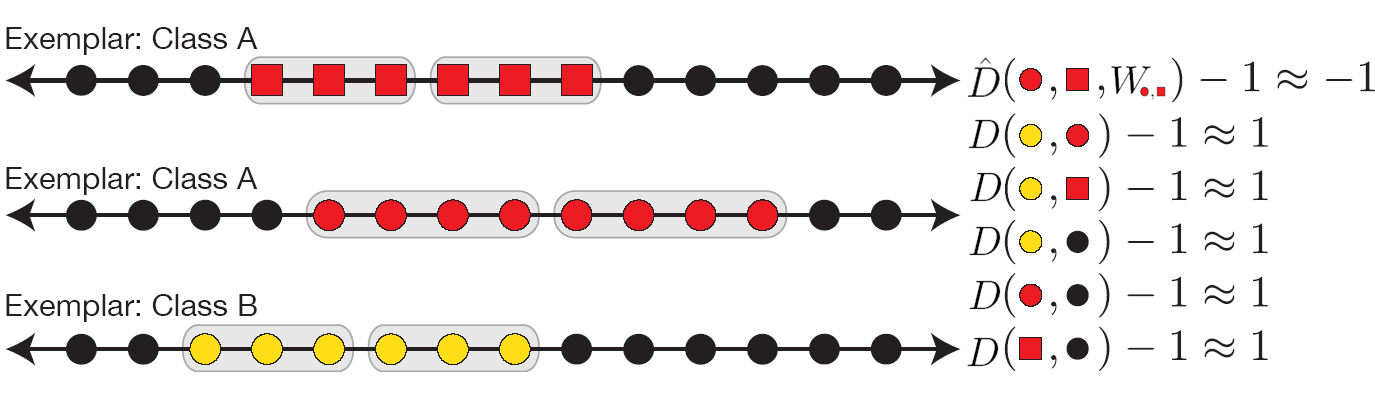
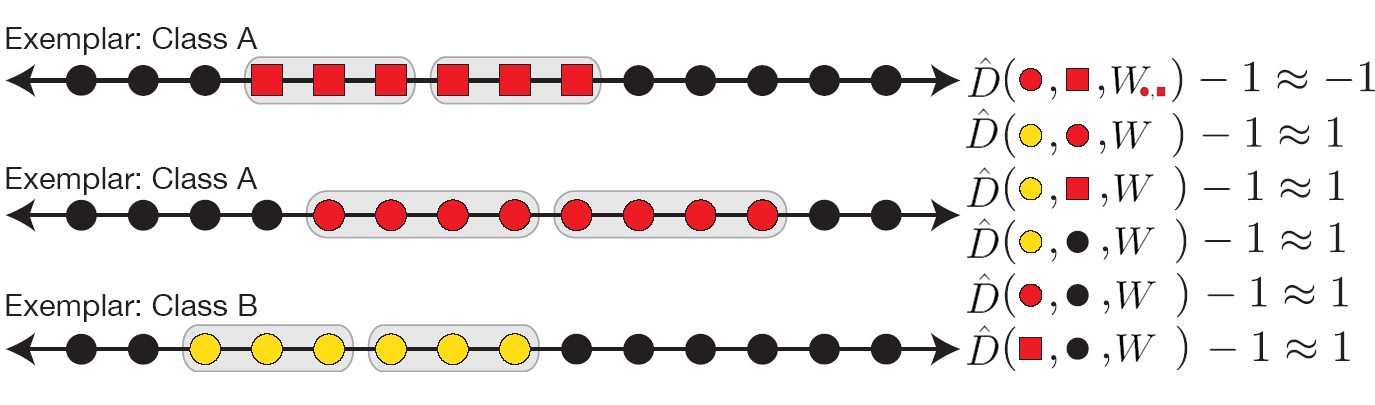
Consolidated all 7am

diff --git a/Supplemental.tex b/Supplemental.tex
@@ -19,7 +19,7 @@
 \newcommand{\todd}[1]{\textcolor{red}{[\bf TZ: #1]}}
 \newcommand{\ruonan}[1]{\textcolor{blue}{[\bf RL: #1]}}
 
-%\cvprfinalcopy % *** Uncomment this line for the final submission
+\cvprfinalcopy % *** Uncomment this line for the final submission
 
 \def\cvprPaperID{1332} % *** Enter the CVPR Paper ID here
 \def\httilde{\mbox{\tt\raisebox{-.5ex}{\symbol{126}}}}
@@ -30,7 +30,7 @@
 \begin{document}
 
 %%%%%%%%% TITLE
-\title{Supplemental Material Accompanying Paper 1332,\\ ``Finding Group Interactions in Social Clutter''}
+\title{Supplemental Material Accompanying Paper 1332\\ ``Finding Group Interactions in Social Clutter''}
 %\author{ Ruonan Li and Todd Zickler\\
 %Harvard School of Engineering and Applied Science\\
 %{\tt\small \{ruonanli,zickler\}@seas.harvard.edu}
@@ -43,7 +43,7 @@
 \section{Details of Branch-and-Bound Localization}
 \label{detailBB}
 
-To apply branch-and-bound algorithm to minimize (\ref{quality}), we first specify the spaces where $T_{s}$ and $T_{e}$ may take a value. We denote the length of the shortest exemplar activity as $T_{min}$, then we assume $1\leq T_{s}\leq T-T_{min}+1$ and $T_{min}+1\leq T_{e}\leq T$. Additional constraint may be imposed, such as $T_{min}\leq T_{e}-T_{s}$. Given these information,  the temporal branch-and-bound algorithm, as a companion to the 2-D case studied in \cite{Lampert}, can be derived as in Algorithm \ref{Algo:2}.  In this algorithm, $\hat{f}(T_{s,low}, T_{s,upp}, T_{e,low}, T_{e,upp})$ is a lower bound of the values of the quality function evaluated on all intervals enclosed in $[T_{s,low}, T_{s,upp}]\times [T_{e,low}, T_{e,upp}]$. To calculate this lower bound, we define
+To apply branch-and-bound algorithm to minimize the quality function (7), we first specify the spaces where $T_{s}$ and $T_{e}$ may take a value. We denote the length of the shortest exemplar activity as $T_{min}$, then we assume $1\leq T_{s}\leq T-T_{min}+1$ and $T_{min}+1\leq T_{e}\leq T$. Additional constraint may be imposed, such as $T_{min}\leq T_{e}-T_{s}$. Given these information,  the temporal branch-and-bound algorithm, as a companion to the 2-D case studied in \cite{Lampert}, can be derived as in Algorithm \ref{Algo:2}.  In this algorithm, $\hat{f}(T_{s,low}, T_{s,upp}, T_{e,low}, T_{e,upp})$ is a lower bound of the values of the quality function evaluated on all intervals enclosed in $[T_{s,low}, T_{s,upp}]\times [T_{e,low}, T_{e,upp}]$. To calculate this lower bound, we define
 \begin{equation}
 \begin{split}
 &\hat{f}(T_{s,low}, T_{s,upp}, T_{e,low}, T_{e,upp})\\
@@ -60,7 +60,7 @@ which only needs to be computed once. Then the lower bound for the cell $\mathca
 \end{equation}
 
 
-\begin{algorithm*}[h]
+\begin{algorithm*}[t]
 \begin{enumerate}
 \footnotesize{
 \item Initialize: Let $T_{s,low}=1$, $T_{s,upp}=T-T_{min}+1$, $T_{e,low}=T_{min}+1$, and $T_{e,upp}=T$; Initialize priority queue $Q$ as empty; 
@@ -92,7 +92,7 @@ Until $T_{s,low}=T_{s,upp}, T_{e,low}=T_{e,upp}$.
 
 \section{Details for Classroom Interaction Dataset}
 
-The raw video framerate is 15fps.
+The raw video frame rate is 15fps.
 
 We have applied an OpenCV face detector and generated long tracks of the bounding boxes using a combination of OpenCV mean-shift tracking and dominant optical flows. We manually eliminate the false-alarm boxes/tracks and recover (very few) miss-detections when using the video for building ground-truth exemplars, and do not involve manual correction when testing our approach. 
 
@@ -109,19 +109,19 @@ In consultation with education experts we define interaction categories based on
 
 \subsection{Descriptors}
 
-We use a coarse representation of the head pose as the individual descriptor. Specifically, we compute the Histogram of Oriented Gradient (HOG) feature within each temporal unit and each box, and apply nine one-against-all SVMs to estimate the likelihood of a HOG feature belonging to nine head poses (front, left, lower-left, lower-front, lower-right, right, back-right, and back-left). The nine-dimensional likelihood vector  serves as our individual descriptor. Meanwhile, we derive the pairwise descriptor for three or more individuals based on the geometrical configurations of the bounding boxes. As shown in the left panel of Figure \ref{all_illu}(b), where a descriptor of target $m$ relative to target $m'$ among five targets at time $t$ is computed, we compute the distances $r_{i}$'s between all others and $m$, and the relative angles $a_{i}$'s between the connecting vectors and $\overrightarrow{mm'}$, and combine all these geometric quantities into a pairwise descriptor $\mathbf{g}_{m,m',t}$. When computing $\mathbf{g}_{n,n',s}$ in the input (right panel of Figure \ref{all_illu}(b)), we align $\overrightarrow{nn'}$ against $\overrightarrow{mm'}$ and predict the locations of the three individuals (shown in red), and compute the true distances $z_{i}$'s and relative angles $b_{i}$'s by locating the nearest individuals to the predicted locations. This pairwise representation achieves invariance under similarity transforms. For two-person interaction, we simply use the distance and the relative angles against the right horizontal axis (Figure \ref{all_illu}(c)). 
+We use a coarse representation of the head pose as the individual descriptor. Specifically, we compute the Histogram of Oriented Gradient (HOG) feature within each temporal unit and each box, and apply nine one-against-all SVMs to estimate the likelihood of a HOG feature belonging to nine head poses (front, left, lower-left, lower-front, lower-right, right, back-right, and back-left). The nine-dimensional likelihood vector  serves as our individual descriptor. Meanwhile, we derive the pairwise descriptor for three or more individuals based on the geometrical configurations of the bounding boxes. As shown in the left panel of Fig. \ref{context_classroom}(a), where a descriptor of target $m$ relative to target $m'$ among five targets at time $t$ is computed, we compute the distances $r_{i}$'s between all others and $m$, and the relative angles $a_{i}$'s between the connecting vectors and $\overrightarrow{mm'}$, and combine all these geometric quantities into a pairwise descriptor $\mathbf{g}_{m,m',t}$. When computing $\mathbf{g}_{n,n',s}$ in the input (right panel of Figure \ref{context_classroom}(a)), we align $\overrightarrow{nn'}$ against $\overrightarrow{mm'}$ and predict the locations of the three individuals (shown in red), and compute the true distances $z_{i}$'s and relative angles $b_{i}$'s by locating the nearest individuals to the predicted locations. This pairwise representation achieves invariance under similarity transforms. For two-person interaction, we simply use the distance and the relative angles against the right horizontal axis (Fig. \ref{context_classroom}(b)). 
 
 \begin{figure}[t]
 \begin{center}
-\includegraphics[scale=1.2]{all_illu.png}
+\includegraphics[scale=0.4]{context_classroom.png}
 \end{center}
-\caption{For the classroom dataset, pairwise descriptors for groups comprised of (a) three or more participants, and (b) two participants. See text for details. \todd{Remove the left part of this figure}}
-\label{fig:classroom-pairwise}
+\caption{For the classroom dataset, pairwise descriptors for groups comprised of (a) three or more participants, and (b) two participants. See text for details. }
+\label{context_classroom}
 \end{figure}
 
 \subsection{Computational cost}
 
-We first look into the computational cost. We replace the optimal matching method with an exhaustive enumeration of all possible matchings. We also apply temporal sliding windows at eight scales ranging from half to twice of the exemplar length, stopping using the remaining scales whenever the current window achieves the same quality function value as the branch-and-bound. We show the average computation time for one match between an exemplar and an input on a 8-core 2.8GHz Macintosh in Table \ref{computecost} (supplementary material), where we see clear savings for the proposed approach.
+We first look into the computational cost. We replace the optimal matching method with an exhaustive enumeration of all possible matchings. We also apply temporal sliding windows at eight scales ranging from half to twice of the exemplar length, stopping using the remaining scales whenever the current window achieves the same quality function value as the branch-and-bound. We show the average computation time for one match between an exemplar and an input on a 8-core 2.8GHz Macintosh in Table \ref{computecost}, where we see clear savings for the proposed approach.
 
 
 \begin{table}[h]
@@ -140,19 +140,19 @@ We first look into the computational cost. We replace the optimal matching metho
 \end{table}
 
 \subsection{Temporal localization}
-We finally investigate the temporal localization performance, for which we compute the ratio of the intersection to the union of the estimated interval and the annotated interval, and show the averages in Figure \ref{classtemporal}(b).  Again, metric learning improves the capability of finding temporal boundaries.
+We investigate the temporal localization performance, for which we compute the ratio of the intersection to the union of the estimated interval and the annotated interval, and show the averages in Figure \ref{temporal_bar}.  Again, metric learning improves the capability of finding temporal boundaries.
 
-\begin{figure*}[t]
+\begin{figure}[t]
 \begin{center}
-\includegraphics[scale=2.5]{classtemporal.png}
+\includegraphics[scale=2.5]{temporal_bar.png}
 \end{center}
 \caption{Average classification accuracies and false positives for two-person and three-person interactions (Individual and/or pairwise descriptors, with or without metric learning (ML)) and the temporal localization accuracies.}
-\label{classtemporal}
-\end{figure*}
+\label{temporal_bar}
+\end{figure}
 
 \subsection{More examples}
 
-\todd{If you reduce the number of results included in the main paper, you could include some more here.}
+\todd{Add ROC here. Full example is already here}
 
 \begin{figure*}
 \begin{center}
@@ -170,7 +170,7 @@ We finally investigate the temporal localization performance, for which we compu
 A 32-dimensional histogram of the spatio-temporal features developed by \cite{Dollar:STIP} in each unit and each bounding box is calculated first against a 500-word vocabulary from K-means clustering and then by PCA, and serves as the individual activity descriptor. Another 32-dimensional histogram of the optical flow computed from OpenCV in each unit and each box is calculated against 8 directions and 4 magnitudes, and the difference between the two histograms (relative motion) serves as the pairwise descriptor between the two humans. In testing, we employ the human detector \cite{Pedro:detect}, and associate the detected boxes across frames to form continuous tracks of humans. 
 
 \subsection{Additional experiments}
-We again explore the effectiveness of combining both individual descriptor and pairwise descriptor, as well as metric learning for group dissimilarity function. We implement our approach with either but not both descriptor, and without learning the dissimilarity. The performance comparison is show in Table ~\ref{UTaccuFPdegrade}. It is interesting to see the pairwise descriptor plays a more crucial role for this dataset: A significant performance drop arises when we only consider individual action descriptors. 
+We again explore the effectiveness of combining both individual descriptor and pairwise descriptor, as well as metric learning for group dissimilarity function. We implement our approach with either but not both descriptor, and without learning the dissimilarity. The performance comparison is show in Table~\ref{UTaccuFPdegrade}. It is interesting to see the pairwise descriptor plays a more crucial role for this dataset: A significant performance drop arises when we only consider individual action descriptors. 
 
 \begin{table}[h]
 \centering \caption{Classification accuracies and false positive (FP) rates comparison on UT-Interaction dataset for evaluating the effectiveness of different components of the proposed approach: Individual and/or pairwise descriptors, with or without metric learning (ML).}
@@ -198,6 +198,8 @@ into action intervals. For more details please refer to \cite{CRIM13}. Note that
 We exactly follow the training/testing partitions provided by the dataset. We extract the spatio-temporal interest points (STIP) based appearance features and compute trajectory-based features from the tracks provided with the dataset as \cite{CRIM13} does (See \cite{CRIM13} for details). Differently from \cite{CRIM13}, we only compute STIP based features inside the bounding boxes enclosing the mice. The trajectory-based features consists of those describing the motion of each individual mouse and those describing the relative motion between two mice. We denote the former as T\_ind and the latter as T\_pair. Again we use a 4-level temporal pyramid, in which the STIP based appearance features are computed as \cite{CRIM13} does and the trajectory based features are also transformed into histograms against 64 codewords. 
 
 \subsection{Additional analysis}
+
+\todd{need rewrite}
 Three combinations of features were attempted in \cite{CRIM13}: Trajectory only, STIP only, and using both. For the case trajectory only, our approach has two possible working modes: Using all trajectory-based features as individual descriptors (denoted as Trajectory\_1), or using T\_ind as individual descriptors and using T\_pair as pairwise descriptors (denoted as Trajectory\_2). In the case of STIP only, all features are used as individual descriptors, and in the case of using both, STIP features and trajectory-based features serve as individual descriptor and pairwise descriptors respectively. To classify a segment responded by one or more exemplars, we simply give it the label of the top-ranked exemplar. We follow the same error metric as \cite{CRIM13}, the frame-wise accuracy, and report the results in Table \ref{CRIMAccu}, where it is evident that motion trajectory is much more discriminative than local STIP based features given little articulation in a constrained environment. The competing performance by approach is achieved by splitting the motion into individual ones and pairwise ones and learning separate metrics for them (Trajectory\_2). In other cases, multi-level adaboost based approach exhibits superiority on frame-wise classifications (as in \cite{CRIM13}).
 
 

diff --git a/classroom_exp.tex b/classroom_exp.tex
@@ -2,46 +2,61 @@
 \section{Experiments}
 \label{expall}
 
-We evaluate our approach on three distinct datasets, two that involve humans and one that involves mice. This tests the generality of our framework because the datasets are very different from one another, with distinct types of individual and pairwise descriptors in each case.that are appropriate for each case are quite different. Due to space constraints, the following discussion is brief. Additional details and experimental results can be found in the accompanying supplemental material.
+We evaluate our approach on three distinct datasets, two that involve humans and one that involves mice. This tests the generality of our framework because the datasets are very different from one another, with distinct types of individual and pairwise descriptors in each case that are appropriate for each case are quite different. In all experiments we use four-level temporal pyramids for the interactions, and we set the time unit to be half the duration of the cells in the lowest level. Due to space constraints, the following discussion is brief. Additional details and experimental results can be found in the accompanying supplemental material.
+
 
 \vspace{0.05in}\noindent\textbf{Classroom Interaction Database.} We collected and annotated a new database of videos capturing students' behaviors over five hour-long sessions in an interactive classroom at a major university. As shown in the left-most images of Fig.~\ref{retrieved}, the students are seated in a regular lecture hall and are observed by a camera array with non-overlapping fields of view. The classroom is ``interactive'' because at various times throughout the lecture students are invited to engage in ad-hoc group discussions about problems provided by the instructor (see, e.g.,~\cite{Crouch:PI}). The ad-hoc groups can form within and across seating rows, and detecting them is a challenge because the number of by-standers  is much larger than the number of participants ($M$ is between 10 and 20 while $N$ is between 2 and 4), video quality is limited (low light, less than 15fps), and the visual cues for interaction are quite subtle. The ability to automatically detect such interactions is important for education researchers, however, since it can help in understanding how students self-organize into groups, and which geometric configurations of groups lead to improved educational outcomes.
 
 Through a combination of face detection and tracking, we obtained noisy tracks for all students in each monocular video. We manually identified the participants and start/end times of all two-person, three-person, and four-person interactions, obtaining 254 two-person, 112 three-person, and 16 four-person interactions in total. In consultation with education experts we define interaction categories based on the geometric configurations of the participants: three categories for 2-person interactions (same row; different rows with left agent in front; different rows with right agent in front) and four categories for 3-person interactions. Details and example images for each category can be found in the accompanying supplemental material. The annotated interactions range from a few seconds to tens of seconds in length. Since the raw videos arise from five different hour-long session, and we adopt a leave-one-session-out evaluation scheme in partitioning  training samples (exemplars) from test samples (inputs). Also, for each split of the data we manually eliminate the false detections and tracks in the exemplars, while leaving them present in the test samples. 
 
-\begin{figure*}
+\begin{figure}[t]
+\vspace{-5pt}
 \begin{center}
-\includegraphics[scale=2.25]{retrieved.png}
+\includegraphics[width=\columnwidth]{ROC_p.png}
 \end{center}
-\vspace{-10pt}
-\caption{Examples of social interaction detection and matching on the classroom interaction database. Each row is an example of detecting a salient interaction from an input and enumerating similar database exemplars: (a) is the input, (b) is the detected social interaction, and (c-1) to (c-3) are the top three associated database exemplars that support this detection.\todd{Can you remove the right-most column of images (and thus the fourth row) and make this into a single-column figure? You could still include the full five-column version in the supplemental material.}}
-\label{retrieved}
-\end{figure*}
+\caption{ROC curves for identifying the participants of an two-person and and four-person interactions using the proposed approach and baselines. (See three-person case in the supplementary material.)}
+\label{ROC}
+\vspace{-5pt}
+\end{figure}
 
-We use four-level temporal pyramids for the interactions and set the time unit to be half the duration of the cells in the lowest level. For individual descriptors we use nine-dimensional vectors that crudely encode the agents' head pose, and for pairwise descriptors we use vectors of dimension $2(N-1)$ that encode, in a manner invariant to similarity transforms, the location of an agent relative to all other $(N-1)$ participants. More details can be found in the supplemental material.
 
-We begin by looking at accuracy of detection, where we ignore the inferred interaction categories and simply measure the systems ability to detect when an interaction has occurred. Figure~\ref{ROC} shows detection ROC curves for different group sizes with various parts of the system turned off. This includes using only one of the individual or pairwise descriptors, and using metric learning (optimized $\Sigma_I,\Sigma_P$) or not ($\Sigma_I$ and $\Sigma_P$ set to identity matrices). Using all parts of the system yields the best results, and we note that performance improves as the number of participants $N$ increases. The latter is due to the fact that interaction patterns are more easily discriminated when more pairwise information is available.
+
+For individual descriptors we use nine-dimensional vectors that crudely encode the agents' head pose, and for pairwise descriptors we use vectors of dimension $2(N-1)$ that encode, in a manner invariant to similarity transforms, the location of an agent relative to all other $(N-1)$ participants. More details can be found in the supplemental material.
+
+
+We begin by looking at accuracy of detection, where we ignore the inferred interaction categories and simply measure the systems ability to detect when an interaction has occurred. Fig.~\ref{ROC} shows detection ROC curves for different group sizes with various parts of the system turned off. This includes using only one of the individual or pairwise descriptors, and using metric learning (optimized $\Sigma_I,\Sigma_P$) or not ($\Sigma_I$ and $\Sigma_P$ set to identity matrices). Using all parts of the system yields the best results, and we note that performance improves as the number of participants $N$ increases. The latter is due to the fact that interaction patterns are more easily discriminated when more pairwise information is available.
 %t is interesting that pairwise descriptor performs better than individual descriptor, mainly due to the fact that the interaction only occur among nearby students in a classroom environment and therefore geometric context provides a strong clue for a potential occurrence of interaction. 
 
-\begin{figure*}[t]
-\begin{center}
-\includegraphics[scale=2.5]{ROC.png}
-\end{center}
-\caption{ROC curves for identifying the participants of an two-person, three-person, and four-person interactions using the proposed approach and baselines. \todd{You could move the $N=3$ graph to the supplemental material and make this a single-column figure.} }
-\label{ROC}
-\end{figure*}
 
 
-\begin{figure*}[t]
+\begin{figure}[t]
+\vspace{-5pt}
 \begin{center}
-\includegraphics[scale=2.5]{classtemporal.png}
+\includegraphics[width=\columnwidth]{class_bar.png}
 \end{center}
-\caption{Average classification accuracies and false positives for two-person and three-person interactions (Individual and/or pairwise descriptors, with or without metric learning (ML)) and the temporal localization accuracies.\todd{Remove temporal localization and make this a single-column figure.}}
+\caption{Average classification accuracies and false positives for two-person and three-person interactions (Individual and/or pairwise descriptors, with or without metric learning (ML)).}
 \label{classtemporal}
-\end{figure*}
+\vspace{-5pt}
+\end{figure}
 
-Next, we study classification performance for 2-person and 3-person interactions, where we measure the accuracy of inferred interaction categories (due to the small number of 4-person interactions in our dataset, we did not define categories for them). As before we do this with various parts of the system turned off, and Fig.~\ref{classtemporal} shows for all correctly-detected interactions the average true positive rates vs. false positives when further classifying them into the three or four categories. \todd{I do not understand the previous sentence.} Again we see that performance improves when more parts of the system turned on. We can also draw a contrast with the detection results of Fig.~\ref{ROC} where the pairwise features are substantially more important than the individual ones. This difference diminishes in Fig.~\ref{classtemporal}, likely because we are measuring performance on correctly-detected interactions, where head pose provides stronger evidence than spatial configuration. An improved head-pose estimator or a more sophisticated description of body pose can be expected to further improved classification performance.
+Next, we study classification performance for 2-person and 3-person interactions, where we measure the accuracy of inferred interaction categories (due to the small number of 4-person interactions in our dataset, we did not define categories for them). As before we do this with various parts of the system turned off, and Fig.~\ref{classtemporal} shows the average true positive rates vs. false positives when further classifying detected interations into the three or four categories. Again we see that performance improves when more parts of the system turned on. We can also draw a contrast with the detection results of Fig.~\ref{ROC} where the pairwise features are substantially more important than the individual ones. This difference diminishes in Fig.~\ref{classtemporal}, likely because we are measuring performance on correctly-detected interactions, where head pose provides stronger evidence than spatial configuration. An improved head-pose estimator or a more sophisticated description of body pose can be expected to further improved classification performance.
 
-Figure~\ref{retrieved} shows some successes and failures of detection and matching. In the first and third rows,  two-person and three-person interactions are correctly detected and matched with exemplars. The second row shows a false detection (blue dashed box), where two people are not interacting but exhibit head poses similar to those of an interaction. In the fourth row, a three-person interaction (two looking left) is correctly detected but supported by a similar exemplar of different category (blue dashed box; two looking right). In the fifth row, a three-person interaction is correctly identified and associated with correct exemplars.
 
-Additional results related to computational cost and accuracy of temporal localization can be found in the supplemental material.
+\begin{figure}
+\vspace{-5pt}
+\begin{center}
+\includegraphics[width=\columnwidth]{retrieved_p.png}
+\end{center}
+\vspace{-10pt}
+\caption{Examples of social interaction detection and matching on the classroom interaction database. Each row is an example of detecting a salient interaction from an input and enumerating similar database exemplars: (a) is the input, (b) is the detected social interaction, and (c-1) to (c-2) are the top two associated database exemplars that support this detection. (See additional examples in the supplementary material.)}
+\label{retrieved}
+\vspace{-5pt}
+\end{figure}
+
+
+Fig.~\ref{retrieved} shows some successes and failures of detection and matching. In the first and third rows,  two-person and three-person interactions are correctly detected and matched with exemplars. The second row shows a false detection (blue dashed box), where two people are not interacting but exhibit head poses similar to those of an interaction. In the fourth row, a three-person interaction is correctly identified and associated with correct exemplars.
+
+ %In the fourth row, a three-person interaction (two looking left) is correctly detected but supported by a similar exemplar of different category (blue dashed box; two looking right). 
+
+Additional results related to computational cost, ROC curve for three-person interaction, accuracy of temporal localization, and extra examples can be found in the supplemental material.
 

diff --git a/UT_Mice_Conclusion.tex b/UT_Mice_Conclusion.tex
@@ -1,10 +1,10 @@
 % !TEX root =  GroupDet.tex
 
-\todd{Add to the beginning of Section 4, ``In all cases we use four-level temporal pyramids for the interactions, and we set the time unit to be half the duration of the cells in the lowest level.'' Then remove these words from elsewhere in the section.} 
 
-\vspace{0.05in}\noindent\noindent\textbf{UT-Interaction Dataset.} For comparison to the state-of-art, we evaluate our approach on the UT-Interaction dataset~\cite{Ryoo:group}. We follow the protocol defined in previous work~\cite{Ryoo:group,Amer:group}: 20\% of available interaction annotations are used as exemplars for training, and the remaining (non-annotated) sequences are used for testing. We again use a 4-level temporal pyramid and set a temporal unit to half length of the bottom-level cell. For individual descriptors we use 32-dimensional histogram of space-time features~\cite{Dollar:STIP}, and for pairwise descriptors we use 32-dimensional differences of optical flow histograms to encode relative motion (more details in supplemental material). To obtain agent tracks in input sequences we use a per-frame detector~\cite{Pedro:detect} with a simple between-frame association rule.
+\vspace{0.05in}\noindent\noindent\textbf{UT-Interaction Dataset.} For comparison to the state-of-art, we evaluate our approach on the UT-Interaction dataset~\cite{Ryoo:group}. We follow the protocol defined in previous work~\cite{Ryoo:group,Amer:group}: 20\% of available interaction annotations are used as exemplars for training, and the remaining (non-annotated) sequences are used for testing. For individual descriptors we use 32-dimensional histogram of space-time features~\cite{Dollar:STIP}, and for pairwise descriptors we use 32-dimensional differences of optical flow histograms to encode relative motion (more details in supplemental material). To obtain agent tracks in input sequences we use a per-frame detector~\cite{Pedro:detect} with a simple between-frame association rule.
 
 \begin{table}[ht]
+\vspace{-5pt}
 \centering \caption{Classification accuracies and false positive (FP) rates for the proposed method and the baselines on UT-Interaction dataset.}
 \footnotesize{
 \begin{tabular}{|c||c|c|}
@@ -20,12 +20,14 @@
 \end{tabular}
 }
 \label{UTaccuFP}
+\vspace{-5pt}
 \end{table}
 
-Table~\ref{UTaccuFP} compares recognition accuracy and false-alarm rates to those of previous work~\cite{Ryoo:group,Amer:group}. For our system, we consider one database exemplar at a time, compute its maximal response over the input video, and claim a true positive only when both the class-label and the identified participants are simultaneously correct. Otherwise a false positive is indicated for that exemplar class. By these measures, our approach provides improved accuracy and competitive false positive rates. Next we study detection in terms both temporal localization and participant identification. For temporal localization, we follow the protocol of~\cite{Amer:group} by indicating a true-positive when there is correct classification and more than a $50\%$ ratio between the intersection and union of the estimated temporal interval and the ground-truth. We achieve a slightly smaller area under ROC curve than the two baselines, as shown in Table ~\ref{UTarea}, but point out that differences are hard to interpret because the temporal boundaries are somewhat ambiguous for the consecutively-executed interactions in the dataset. To assess participant identification, we enforce a stricter true-positive criterion that requires $100\%$ correct identification instead of the $50\%$ value used in~\cite{Amer:group} and our system still outperforms the method of \cite{Amer:group}. We attribute this to the relative flexibility of our represention. \todd{Write one or two sentences here. Something about the fact that their interactions can't easily accommodate changes ``shape'' over space and time.}
+Table~\ref{UTaccuFP} compares recognition accuracy and false-alarm rates to those of previous work~\cite{Ryoo:group,Amer:group}. For our system, we consider one database exemplar at a time, compute its maximal response over the input video, and claim a true positive only when both the class-label and the identified participants are simultaneously correct. Otherwise a false positive is indicated for that exemplar class. By these measures, our approach provides improved accuracy and competitive false positive rates. Next we study detection in terms both temporal localization and participant identification. For temporal localization, we follow the protocol of~\cite{Amer:group} by indicating a true-positive when there is correct classification and more than a $50\%$ ratio between the intersection and union of the estimated temporal interval and the ground-truth. We achieve a slightly smaller area under ROC curve than the two baselines, as shown in Table ~\ref{UTarea}, but point out that differences are hard to interpret because the temporal boundaries are somewhat ambiguous for the consecutively-executed interactions in the dataset. To assess participant identification, we enforce a stricter true-positive criterion that requires $100\%$ correct identification instead of the $50\%$ value used in~\cite{Amer:group} and our system still outperforms the method of \cite{Amer:group}. We attribute this to the fact that we explicitly discriminate interactions and participants in the form of tracks of bounding boxes, while \cite{Amer:group} does not do so but simply explains an input using a non-discriminative generative model.
 
 \begin{table}[ht]
-\centering \caption{Area under ROC curve for the proposed method and the baselines on UT-Interaction dataset. \todd{If you are stuck for space, you could move this figure, along with the accompanying text above, to the supplemental material.}}
+\vspace{-5pt}
+\centering \caption{Area under ROC curve for the proposed method and the baselines on UT-Interaction dataset.}
 \footnotesize{
 \begin{tabular}{|c|c|c|c|}
 \hline   & \cite{Ryoo:group} &  \cite{Amer:group}  &   ours \\
@@ -35,6 +37,7 @@ Table~\ref{UTaccuFP} compares recognition accuracy and false-alarm rates to thos
 \end{tabular}
 }
 \label{UTarea}
+\vspace{-5pt}
 \end{table}
 
 Additional results that measure the effect of turning off different parts of our system can be found in the supplemental material.
@@ -44,18 +47,20 @@ Additional results that measure the effect of turning off different parts of our
 To classify an temporal interval in a test video that is successfully matched to one or more exemplars, we simply read the label of the top-scoring exemplar. Table \ref{CRIMAccu} shows the results using the error metric (frame-wise accuracy) defined in \cite{CRIM13}. As done in the original work, we separately measure performance using trajectories features only, STIP features only, and both. It is clear that motion trajectory information is much more important than local STIP-based features, which is not surprising given the limited articulation of the agents.
 
 \begin{table}[h]
-\centering \caption{Accuracies for the proposed method and the baselines on Caltech Resident-Intruder Mouse Dataset. (\%) \todd{Only show the Trajectory\_2 results in this table, and do not include the discussion about different ways to use trajectory features. Instead put this bigger table in the supplemental material along with that discussion.}}
+\vspace{-5pt}
+\centering \caption{Accuracies for the proposed method and the baselines on Caltech Resident-Intruder Mouse Dataset. (See additional results in the supplementary material.))}
 \footnotesize{
-\begin{tabular}{|c||c|c|c|c|}
-\hline   & Trajectory\_1  & Trajectory\_2 & STIP & Both \\
-\hline \cite{CRIM13} w/o. context & 52.3  & 52.3 & 29.3 & 53.1\\
-\hline \cite{CRIM13} w. context &  \underline{58.3} & 58.3 & \underline{43.0} & 61.2\\
-\hline Ours w/o. ML &  45.6 & 49.4 & 18.8 & 50.9 \\
-\hline Ours w. ML & 54.5 & \underline{66.0} & 31.7 & \underline{62.9}\\
+\begin{tabular}{|c||c|c|c|}
+\hline  \% & Trajectory & STIP & Both \\
+\hline \cite{CRIM13} w/o. context & 52.3 & 29.3 & 53.1\\
+\hline \cite{CRIM13} w. context & 58.3 & \underline{43.0} & 61.2\\
+\hline Ours w/o. ML & 49.4 & 18.8 & 50.9 \\
+\hline Ours w. ML & \underline{66.0} & 31.7 & \underline{62.9}\\
 \hline 
 \end{tabular}
 }
 \label{CRIMAccu}
+\vspace{-5pt}
 \end{table}
 
 Additional analysis, including different approaches to encoding trajectory information and detection accuracy as a function of interaction length can be found in the supplemental material.

diff --git a/met_learn.tex b/met_learn.tex
@@ -3,7 +3,7 @@
 \section{Descriptor Metric Learning}
 \label{MetLearn}
 \vspace{-5pt}
-As mentioned in Sec. \ref{agg}, we learn matrices $\Sigma_{I}$, $\Sigma_{P}$ for the Mahalanobis distances $d_I(\mathbf{f},\mathbf{f}')$ and $d_P(\mathbf{g},\mathbf{g}')$, so that the learned metrics can: 1) enhance discrimination between exemplar categories by ensuring that distances are smaller when descriptors are drawn from roughly the same temporal location within a labeled exemplar of the same category, and larger otherwise; and 2) enhance the accuracy of temporal localization by ensuring that distances between labeled ensembles and unlabeled ``background'' ensembles are large. Both 1) and 2) lead to more accurate spatial localizations of participants (\ie better $W^{*}$ as discussed in Sec. \ref{vote}), and they induce the ``quality function'' conditions required for efficient temporal localization by branch-and-bound (Sec.~\ref{BB}). We achieve all of these benefits simultaneously by using an adaptation of the Large Margin Nearest Neighbor (LMNN) framework~\cite{Weinberger:ML}. 
+As mentioned in Sec. \ref{agg}, we learn matrices $\Sigma_{I}$, $\Sigma_{P}$ for the Mahalanobis distances $d_I(\mathbf{f},\mathbf{f}')$ and $d_P(\mathbf{g},\mathbf{g}')$, so that the learned metrics can: 1) enhance discrimination between exemplar categories by ensuring that distances are smaller when descriptors are drawn from roughly the same temporal location within a labeled exemplar of the same category, and larger otherwise; and 2) enhance the accuracy of temporal localization by ensuring that distances between labeled ensembles and unlabeled ``background'' ensembles are large. The combination of 1) and 2) leads to more accurate spatial localizations of participants (\ie better $W^{*}$ as discussed in Sec. \ref{vote}), and induces the ``quality function'' conditions required for efficient temporal localization by branch-and-bound (Sec.~\ref{BB}). We achieve all of these benefits simultaneously by using an adaptation of the Large Margin Nearest Neighbor (LMNN) framework~\cite{Weinberger:ML}. 
 
 For each application scenario, we use a training set of exemplar videos---possibly having varying numbers of agents $N$---that are annotated with start/end times, category labels, $N$-agent correspondences between exemplars of the same category. We use unlabeled time units in the videos as ``background'' samples. Intuitively, the learned metrics should satisfy the six types of constraints shown in Fig.~\ref{ML_illustration}. This figure depicts three different exemplar videos in which a subset of time units have been labeled as being distinctive interactions of two different classes. In this example, each labeled exemplar is shown as being divided into two cells; these correspond to the lowest level of the temporal pyramid described in Sec.~\ref{BB}. The first three constraints in the list enhance discrimination between categories, while the last three enhance the accuracy of temporal localization. Offsetting all of the distances by $-1$ ensures that the function $q(t)$ in (\ref{qfunction}) assumes proper negative values as required for branch-and-bound search. 
 
@@ -22,11 +22,12 @@ We enforce these constraints through an LMNN framework by construct two collecti
 \vspace{-5pt}
 \label{classify}
 \begin{split}
-&\min_{\Sigma_{I}\succeq 0, \Sigma_{P}\succeq 0} \sum_{(u,v)\in\mathcal{P}}\hat{D}(\mathcal{D}_{u}, \mathcal{D}_{v}, W_{u,v})+\gamma\sum_{(h,k,l)\in\mathcal{M}}\xi_{h,k,l}\\
-&\textup{s.t.}  D(\mathcal{D}_{h}, \mathcal{D}_{l})-\hat{D}(\mathcal{D}_{h}, \mathcal{D}_{k}, W_{h,k})\ge 2-\xi_{h,k,l}, \xi_{h,k,l}\ge0,
+&\min_{\Sigma_{I}, \Sigma_{P}} \sum_{(u,v)\in\mathcal{P}}\hat{D}(\mathcal{D}_{u}, \mathcal{D}_{v}, W_{u,v})+\gamma\sum_{(h,k,l)\in\mathcal{M}}\xi_{h,k,l},\\
+&\textup{s.t.}  \hat{D}(\mathcal{D}_{h}, \mathcal{D}_{l}, W)-\hat{D}(\mathcal{D}_{h}, \mathcal{D}_{k}, W_{h,k})\ge 2-\xi_{h,k,l},\\
+& \Sigma_{I}\succeq 0, \Sigma_{P}\succeq 0, \xi_{h,k,l}\ge0,
 \end{split}
 \end{equation}
-where $W_{u,v}$ is the ``ground-truth" matching for pair $(u,v)$\footnote{It is useful to add to the collection $\mathcal{M}$ additional triples in which $l$ is derived from same-category same-cell pairs but with permuted incorrect matching matrices. In this case $D(\mathcal{D}_{h}, \mathcal{D}_{l})$ in (\ref{classify}) is replaced by $\hat{D}(\mathcal{D}_{h}, \mathcal{D}_{l}, \bar{W}_{h,l})$, where $\bar{W}_{h,l}$ is the permuted incorrect matching matrix.}. The minimization over either $\Sigma_{I}$ or $\Sigma_{P}$ is exactly a LMNN problem\cite{Weinberger:ML}, and we apply LMNN multiple times to separately learn one distinct pair of ($\Sigma_{I}, \Sigma_{P}$) for each value of $N$ that exists in the training set. 
+where $W_{u,v}$ is the ``ground-truth" matching for pair $(u,v)$ and $W$ is an arbitrary matching in $\mathcal{W}$ \footnote{It is useful to add to the collection $\mathcal{M}$ additional triples in which $l$ is derived from same-category same-cell pairs but with permuted incorrect matching matrices. In this case $\hat{D}(\mathcal{D}_{h}, \mathcal{D}_{l}, W)$ in (\ref{classify}) is replaced by $\hat{D}(\mathcal{D}_{h}, \mathcal{D}_{l}, \bar{W}_{h,l})$, where $\bar{W}_{h,l}$ is the permuted incorrect matching.}. The minimization over either $\Sigma_{I}$ or $\Sigma_{P}$ is exactly a LMNN problem\cite{Weinberger:ML}, and we apply LMNN multiple times to separately learn one distinct pair of ($\Sigma_{I}, \Sigma_{P}$) for each value of $N$ that exists in the training set. 
 
 
 %Recall that 1) in Section \ref{vote} we expect the score $D$ to be small when a temporal unit in the input is best aligned to a temporal unit in the exemplar by the `correct' matching matrix; and 2) in Section \ref{BB} we expect the dissimilarity $D^{*}(t)$ are driven toward zero in the `ground-truth' interval $[t_{s}, t_{e}]$ , and toward a large positive number $2\Delta$ otherwise. For both purposes, we learn an effective ensemble dissimilarity measure. Recall that the ensemble dissimilarity $D$ or $\hat{D}$ is aggregated from `atomic' descriptor distances $\{ d_{I}(\mathbf{f}_{m,t}, \mathbf{f}^{D}_{n,s}), d_{P}(\mathbf{g}_{m,m',t}, \mathbf{g}^{D}_{n,n',s})\}$, and the ensemble dissimilarity learning therefore narrows down to learning effective `atomic'  distances.  We parameterize an atomic distance by a Mahalanobis metric, \textit{i.e.}, let $d_{I}(\mathbf{f}, \mathbf{f}')=(\mathbf{f}-\mathbf{f}')^{T}\Sigma_{I}(\mathbf{f}-\mathbf{f}')$ and $d_{P}(\mathbf{g}, \mathbf{g}')=(\mathbf{g}-\mathbf{g}')^{T}\Sigma_{P}(\mathbf{g}-\mathbf{g}')$, where $\Sigma_{I}\succeq 0$ and $\Sigma_{P}\succeq 0$ are positive semi-definite matrices.  

diff --git a/temporal.tex b/temporal.tex
@@ -3,9 +3,9 @@
 \vspace{-5pt}
 Our third step is to determine the starting time $T_s$ and ending time $T_e$ ($1\le T_s<T_e\le T$) of the distinctive interaction. For this purpose, after the participants are determined through the best matching $W^{*}$, we recompute the dissimilarities under this specific matching $\hat{D}(\mathcal{Q}_{t}, \mathcal{D}_{s}, W^{*})$, which tells how similar the interaction of the individuals selected by $W^{*}$ at time $t$ is to the exemplar at time $s$, for all $(t,s)$ pairs. We can further get  $D^{*}(t)=\min_{s}\hat{D}(\mathcal{Q}_{t}, \mathcal{D}_{s}, W^{*})$, the minimal dissimilarity of the input interaction by the selected participants to the entire exemplar, as well as $s^{*}(t)=\arg\min_{s}\hat{D}(\mathcal{Q}_{t}, \mathcal{D}_{s}, W^{*})$, the time in the exemplar at which the input at time $t$ exhibits this maximum similarity.  
 
-If in the input between starting time $t_{s}$ and ending time $t_{e}$ ($1\leq t_{s}<t_{e}\leq T$) the selected agents perform exactly the same interaction as the exemplar (between time $1$ and $S$), what should $D^{*}(t)$ and $s^{*}(t)$ ideally look like in this interval? Obviously, 1) the dissimilarities $D^{*}(t)$'s should be small for $t_{s}\le t\le t_{e}$ and be large for other $t$'s, and 2) the optimally aligned time $s^{*}(t)$ should reside at a similar relative temporal location between $1$ and $S$ as the input time $t$ resides between $t_{s}$ and $t_{e}$.
+If in the input between starting time $t_{s}$ and ending time $t_{e}$ ($1\leq t_{s}<t_{e}\leq T$) the selected agents perform exactly the same interaction as the exemplar (between time $1$ and $S$), what should $D^{*}(t)$ and $s^{*}(t)$ ideally look like in this interval? Obviously, 1) the dissimilarities $D^{*}(t)$'s should be small for $t_{s}\le t\le t_{e}$ and be large for other $t$'s; and 2) the optimally aligned time $s^{*}(t)$ should reside at a similar relative temporal location between $1$ and $S$ as the input time $t$ resides between $t_{s}$ and $t_{e}$.
 
-To realize 1), we use the approach in Sec. \ref{MetLearn}, where the dissimilarities $D^{*}(t)$ toward zero in the `ground-truth' interval $[t_{s}, t_{e}]$ and toward $2$ otherwise. To formally describe the temporal aligning condition in 2), we employ a temporal pyramid with a total of $L$ levels and $2^{l}$ equal-length cells at the $l$th level to encode the temporal location of a particular time in an interval. Specifically, we define $t\in\mathcal{C}(T_{s},T_{e}, l,i)$ to mean that time $t$ belongs to the $i$th cell at the $l$th level of a $L$-level temporal pyramid on the interval $[T_{s},T_{e}]$, and $s\in\mathcal{C}(1,S, l,i)$ to mean that time $s$ belongs to the $i$th cell at the $l$th level of the pyramid on the interval $[1,S]$. Then, the quantity
+To realize 1), we use the approach in Sec. \ref{MetLearn}, where the dissimilarities $D^{*}(t)$ are driven toward 0 in the `ground-truth' interval $[t_{s}, t_{e}]$ and toward $2$ otherwise. To formally describe the temporal aligning condition in 2), we employ a temporal pyramid with a total of $L$ levels and $2^{l}$ equal-length cells at the $l$th level to encode the temporal location of a particular time in an interval. Specifically, we define $t\in\mathcal{C}(T_{s},T_{e}, l,i)$ to mean that time $t$ belongs to the $i$th cell at the $l$th level of a $L$-level temporal pyramid on the interval $[T_{s},T_{e}]$, and $s\in\mathcal{C}(1,S, l,i)$ to mean that time $s$ belongs to the $i$th cell at the $l$th level of the pyramid on the interval $[1,S]$. Then, the quantity
 \begin{equation}
 \vspace{-5pt}
 k(t, T_{s},T_{e}, s, 1,S)\triangleq\sum^{L-1}_{l=0}\sum^{2^{l}}_{i=1} \mathbf{1}(t\in\mathcal{C}(T_{s},T_{e}, l,i))\mathbf{1}(s\in\mathcal{C}(1,S, l,i))

diff --git a/voting.tex b/voting.tex
@@ -8,9 +8,9 @@ The scenario now resembles the setting for a general Hough Transform, where the 
 \begin{figure}[t]
 \vspace{-5pt}
 \begin{center}
-\includegraphics[scale=1.2]{all_illu.png}
+\includegraphics[scale=0.3]{neighbor2.png}
 \end{center}
-\caption{(a) The temporal neighborhood used in to compute (\ref{softvote}). See Sec. \ref{vote} for details. (b) Illustration of the pairwise pairwise descriptors for groups comprised of three or more participants in the classroom interaction database. See Sec. \ref{expall} for details. (c) Similar illustrations for groups involving only two participants. See Sec. \ref{expall} for details.}
+\caption{The temporal neighborhood used in to compute (\ref{softvote}). See Sec. \ref{vote} for details.}
 \label{all_illu}
 \vspace{-5pt}
 \end{figure}

diff --git a/GroupDet.tex b/GroupDet.tex
@@ -56,8 +56,8 @@ Harvard School of Engineering and Applied Science\\
 \bibliography{egbib}
 }
 
-\clearpage
-\input{supp}
+%\clearpage
+%\input{supp}
 
 
 
